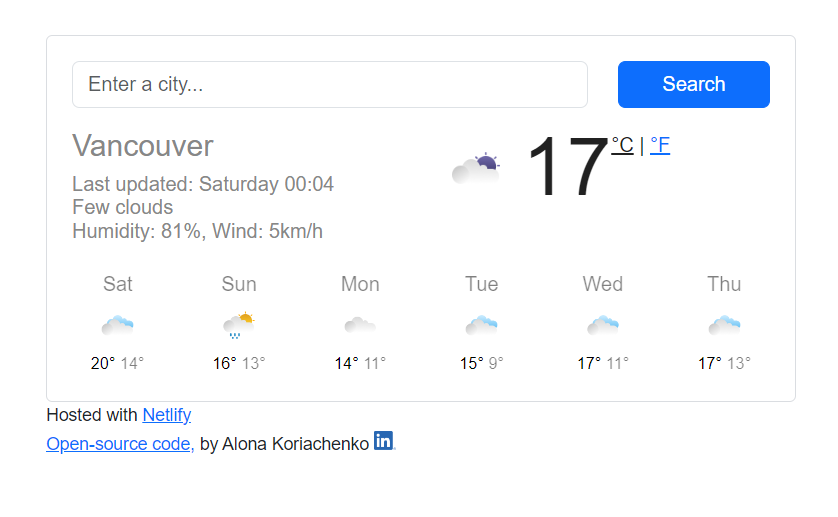
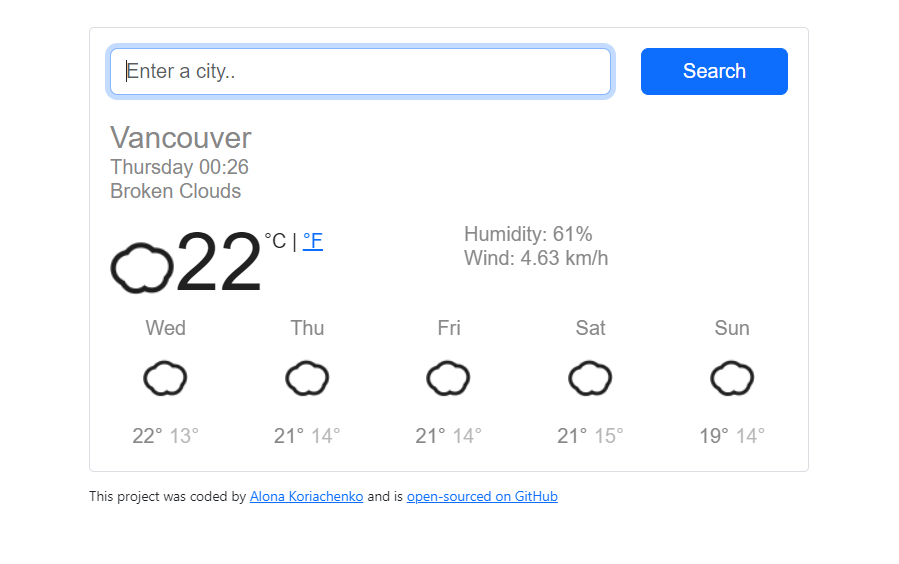
Changed some content and img

diff --git a/index.html b/index.html
@@ -71,11 +71,25 @@
       <div class="row mb-5">
         <div class="col d-none d-lg-block">
           <img
-            src="images/aurora_borealis.png"
+            src="images/weather.png"
             class="img-fluid"
-            alt="Aurora Borealis Project Preview"
+            alt="Weather App Preview"
           />
         </div>
+        <div class="col">
+          <div class="project-description">
+            <h2 class="mb-5">Weather App</h2>
+            <p class="mb-5 text-muted">
+              I immersed myself in React development in SheCodes React. I used
+              my knowledge of this highly-demanded framework to build a working
+              Weather App incorporating coding best practices, along with the
+              most popular tools and technologies.
+            </p>
+            <a href="/work.html" class="btn btn-branding-outline">Learn more</a>
+          </div>
+        </div>
+      </div>
+      <div class="row mb-5">
         <div class="col">
           <div class="project-description">
             <h2 class="mb-5">Aurora Borealis Project</h2>
@@ -89,27 +103,11 @@
             <a href="/work.html" class="btn btn-branding-outline">Learn more</a>
           </div>
         </div>
-      </div>
-      <div class="row mb-5">
-        <div class="col">
-          <div class="project-description">
-            <h2 class="mb-5">Weather App</h2>
-            <p class="mb-5 text-muted">
-              I built a Vanilla JavaScript weather app in SheCodes Plus, an
-              advanced 8-week JavaScript coding workshop. Building upon my
-              previously-gained knowledge, I also became skilled in Bootstrap,
-              API's, real-life development workflow, hosting, and advanced
-              JavaScript. I combined all of these skills to create a
-              fully-functioning weather app.
-            </p>
-            <a href="/work.html" class="btn btn-branding-outline">Learn more</a>
-          </div>
-        </div>
         <div class="col d-none d-lg-block">
           <img
-            src="images/weather.png"
+            src="images/aurora_borealis.png"
             class="img-fluid"
-            alt="Weather App Preview"
+            alt="Aurora Borealis Project Preview"
           />
         </div>
       </div>

diff --git a/work.html b/work.html
@@ -72,17 +72,17 @@
             </p>
           </div>
           <div class="col-md-6 mb-4">
-            <img src="images/weather.png" class="img-fluid mb-3" alt="" />
-            <h3 class="text-center m-0">Weather App</h3>
-            <p class="text-center text-muted">
-              Built using HTML, an active API, and advanced CSS and JavaScript
-            </p>
-          </div>
-          <div class="col-md-6 mb-4">
             <img src="images/yogurt.png" class="img-fluid mb-3" alt="" />
             <h3 class="text-center m-0">Yogurt Landing Page</h3>
             <p class="text-center text-muted">
               Built with HTML, CSS, and JavaScript
+            </p>
+          </div>
+          <div class="col-md-6 mb-4">
+            <img src="images/weather.png" class="img-fluid mb-3" alt="" />
+            <h3 class="text-center m-0">Weather App</h3>
+            <p class="text-center text-muted">
+              Built using HTML, an active API, and advanced CSS and React
             </p>
           </div>
           <div class="col-md-6 mb-4">

diff --git a/src/style.css b/src/style.css
@@ -124,7 +124,7 @@ p {
 }
 
 .project-description {
-  padding: 120px 60px;
+  padding: 60px 60px;
 }
 
 .my-name {
